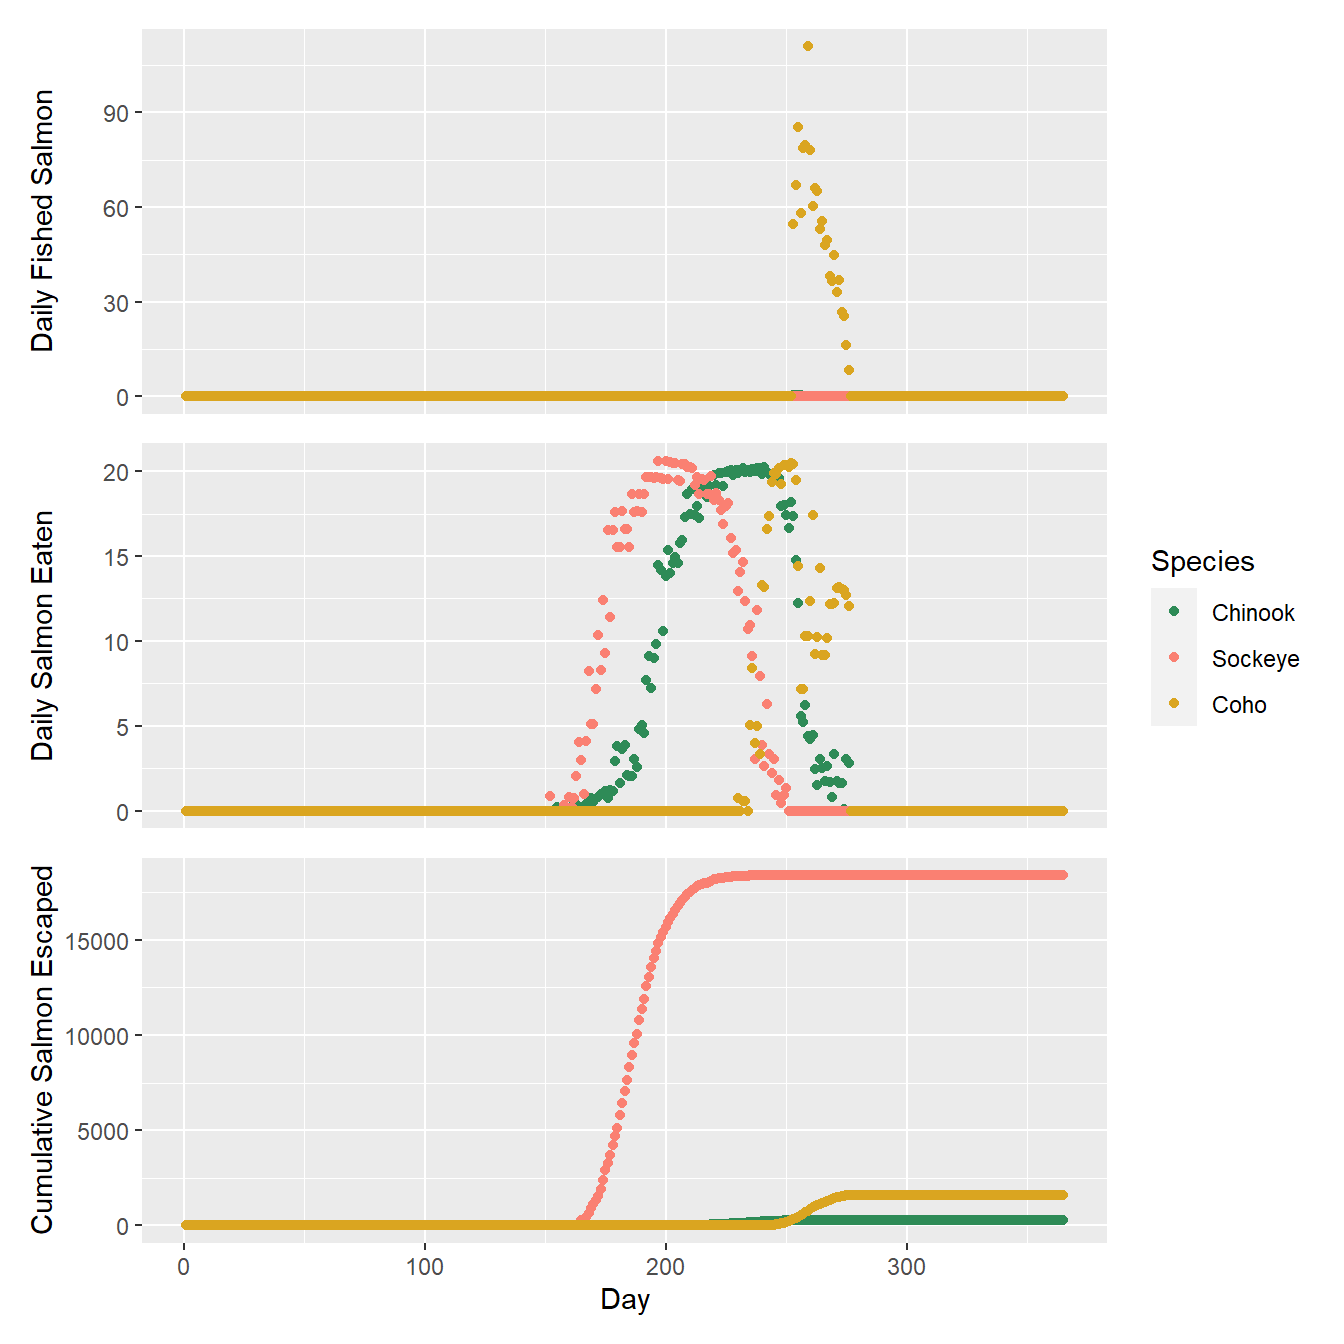
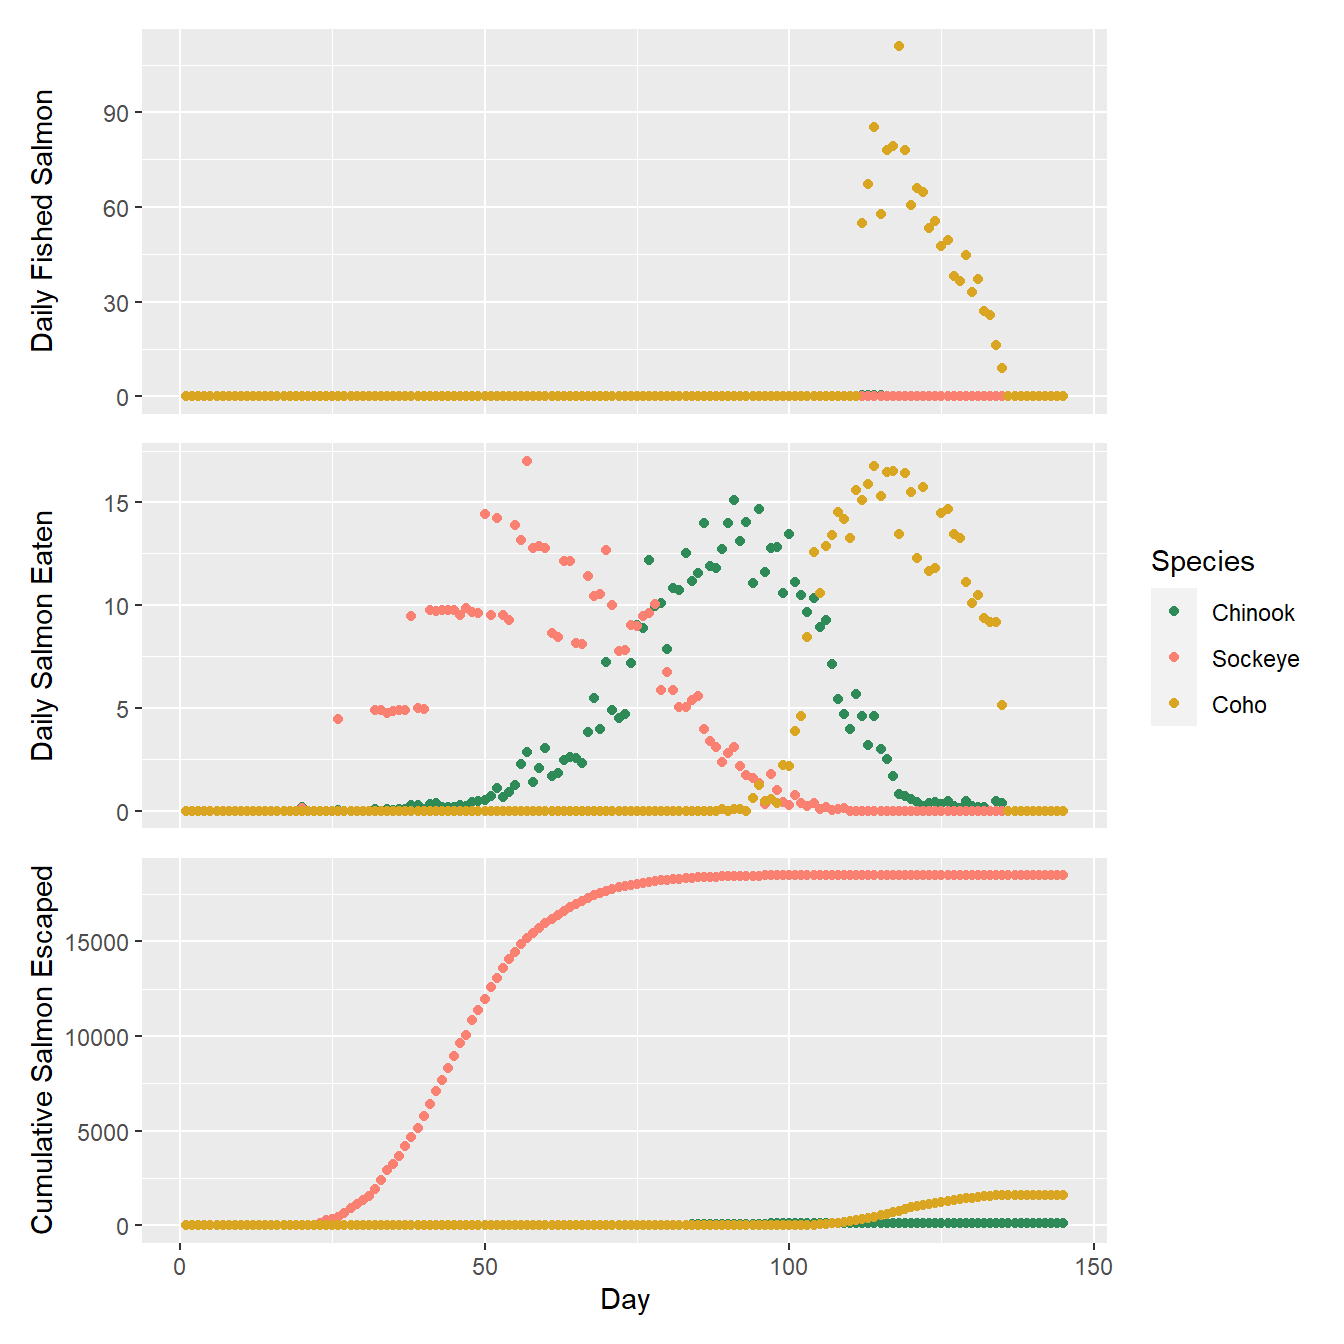
knitted

diff --git a/docs/docs/BaseRunRealm.html b/docs/docs/BaseRunRealm.html
@@ -10,7 +10,7 @@
 
 
 
-<meta name="date" content="2024-04-08" />
+<meta name="date" content="2024-06-24" />
 
 <title>The Base Run Realm</title>
 
@@ -277,7 +277,7 @@ $(document).ready(function () {
 
 <h1 class="title toc-ignore">The Base Run Realm</h1>
 <h3 class="subtitle">Describing the Base Run</h3>
-<h4 class="date">April 08, 2024</h4>
+<h4 class="date">June 24, 2024</h4>
 
 </div>
 
@@ -352,74 +352,6 @@ The following seals were killed during this run:</p>
 <tbody>
 <tr>
 <td>
-<table>
-<thead>
-<tr class="header">
-<th align="right">x</th>
-</tr>
-</thead>
-<tbody>
-<tr class="odd">
-<td align="right">13</td>
-</tr>
-</tbody>
-</table>
-</td>
-<td>
-<table>
-<thead>
-<tr class="header">
-<th align="right">x</th>
-</tr>
-</thead>
-<tbody>
-<tr class="odd">
-<td align="right">20</td>
-</tr>
-</tbody>
-</table>
-</td>
-<td>
-<table>
-<thead>
-<tr class="header">
-<th align="right">x</th>
-</tr>
-</thead>
-<tbody>
-<tr class="odd">
-<td align="right">19</td>
-</tr>
-</tbody>
-</table>
-</td>
-<td>
-<table>
-<thead>
-<tr class="header">
-<th align="right">x</th>
-</tr>
-</thead>
-<tbody>
-<tr class="odd">
-<td align="right">14</td>
-</tr>
-</tbody>
-</table>
-</td>
-<td>
-<table>
-<thead>
-<tr class="header">
-<th align="right">x</th>
-</tr>
-</thead>
-<tbody>
-<tr class="odd">
-<td align="right">10</td>
-</tr>
-</tbody>
-</table>
 </td>
 </tr>
 </tbody>
@@ -461,13 +393,13 @@ Coho
 <tbody>
 <tr>
 <td style="text-align:right;">
-18397.48
+18495.87
 </td>
 <td style="text-align:right;">
-270.5616
+142.1801
 </td>
 <td style="text-align:right;">
-1607.927
+1614.058
 </td>
 </tr>
 </tbody>
@@ -492,7 +424,7 @@ Value
 days
 </td>
 <td style="text-align:right;">
-365.0000
+145.0000
 </td>
 </tr>
 <tr>
@@ -524,7 +456,7 @@ sockeye_escape_rate
 chinook_escape_rate
 </td>
 <td style="text-align:right;">
-0.0300
+0.0150
 </td>
 </tr>
 <tr>
@@ -604,7 +536,7 @@ natural_mort
 Cmax
 </td>
 <td style="text-align:right;">
-1.0000
+5.0000
 </td>
 </tr>
 <tr>
